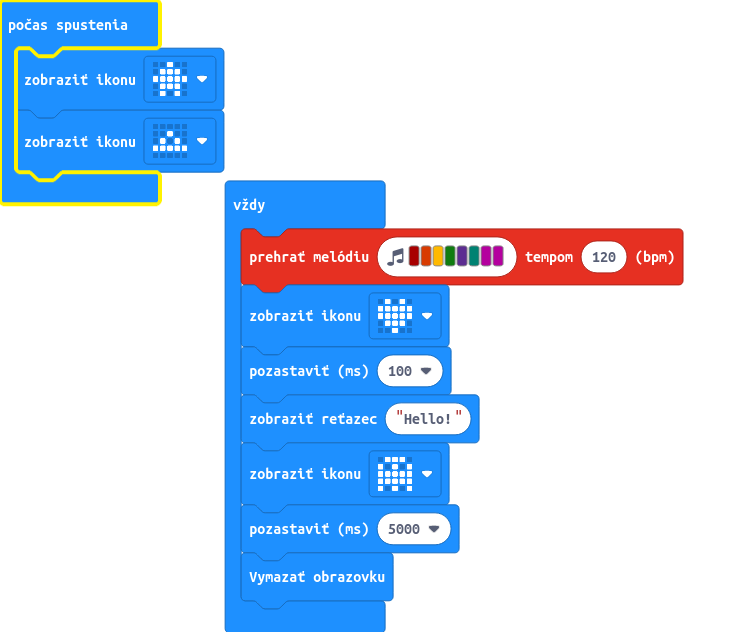
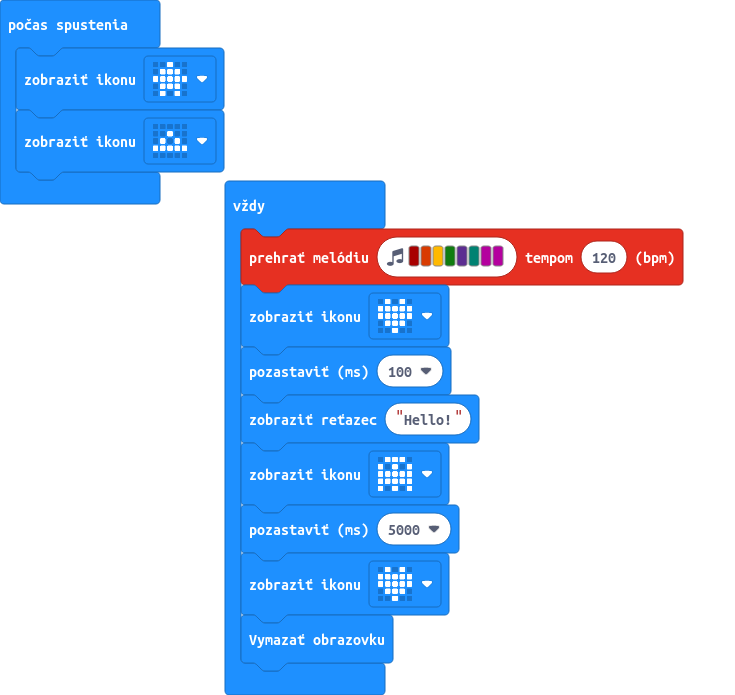
Aktualizovať main.blocks, main.ts

Changed region(s): [[0.0, 0.0, 0.9279, 0.962], [0.2993, 0.9921, 0.5388, 1.0]]

diff --git a/main.ts b/main.ts
@@ -7,5 +7,6 @@ basic.forever(function () {
     basic.showString("Hello!")
     basic.showIcon(IconNames.Ghost)
     basic.pause(5000)
+    basic.showIcon(IconNames.Heart)
     basic.clearScreen()
 })
